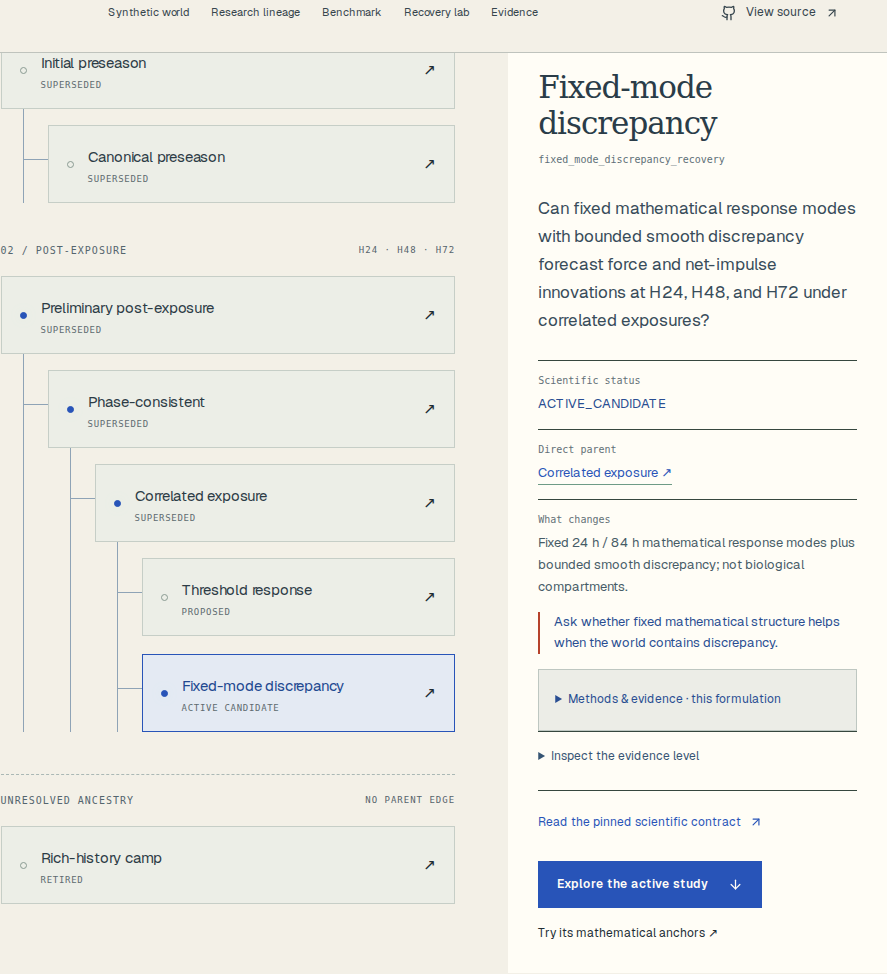
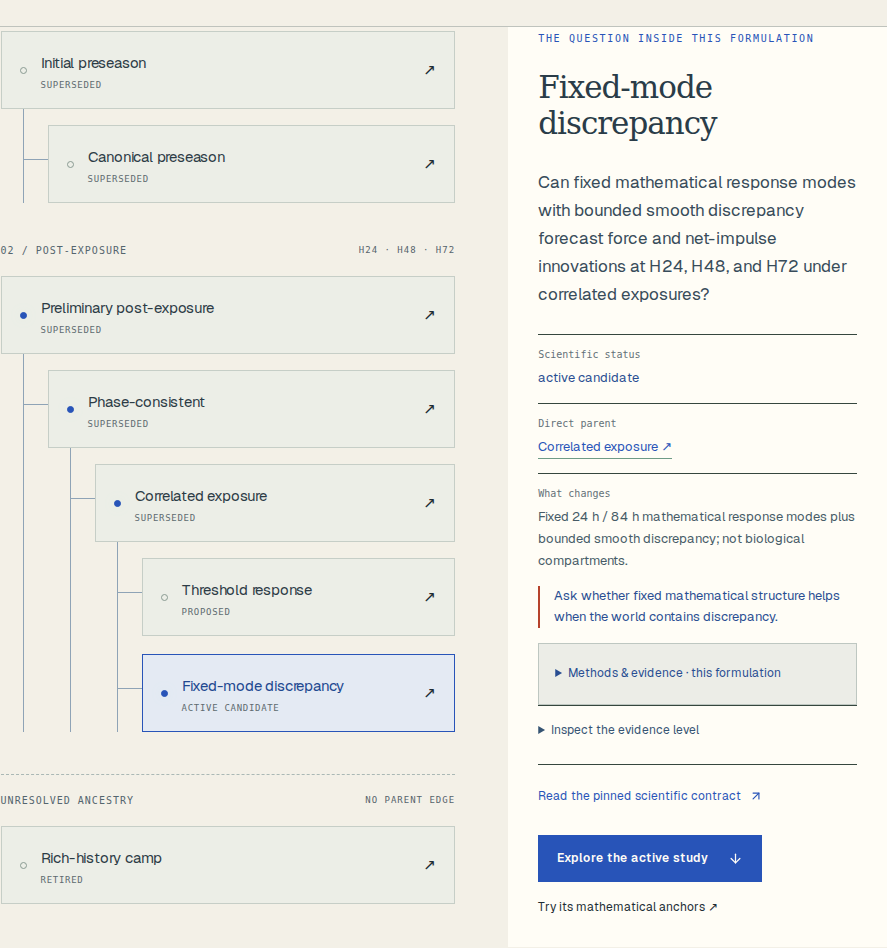
fix: keep source identifiers in technical disclosures

diff --git a/website/src/components/lineage.tsx b/website/src/components/lineage.tsx
@@ -33,13 +33,12 @@ function FormulationDetail({
     <>
       <span className="eyebrow">THE QUESTION INSIDE THIS FORMULATION</span>
       <h3>{node.label}</h3>
-      <code className="contract-name">{node.id}</code>
       <p className="lineage-question">{node.question}</p>
       <dl className="lineage-facts">
         <div>
           <dt>Scientific status</dt>
           <dd className={node.status === "ACTIVE_CANDIDATE" ? "mint-text" : ""}>
-            {node.status}
+            {node.status.replaceAll("_", " ").toLowerCase()}
           </dd>
         </div>
         <div>
@@ -65,6 +64,9 @@ function FormulationDetail({
       <p className="formulation-relevance">{method.relevance}</p>
       <details className="methods-sheet formulation-methods" key={node.id}>
         <summary>Methods & evidence · this formulation</summary>
+        <p>
+          Source identifier: <code className="contract-name">{node.id}</code>
+        </p>
         <dl>
           <dt>World / dynamics family</dt>
           <dd>
@@ -96,9 +98,14 @@ function FormulationDetail({
         <summary>Inspect the evidence level</summary>
         <dl>
           <dt>Public generation + result chain</dt>
-          <dd>{reconstruction.chain}</dd>
+          <dd>{reconstruction.chain.replaceAll("_", " ").toLowerCase()}</dd>
           <dt>Historical numeric result</dt>
-          <dd>{reconstruction.historical(node.id)}</dd>
+          <dd>
+            {reconstruction
+              .historical(node.id)
+              .replaceAll("_", " ")
+              .toLowerCase()}
+          </dd>
         </dl>
         <p>
           A fresh synthetic generator runs. No exact historical score replay.
@@ -141,7 +148,7 @@ function Branch({
         className="lineage-node"
         aria-pressed={selected === node.id}
         onClick={() => onSelect(node.id)}
-        title={node.id}
+        title={node.label}
       >
         <span className="node-mark" aria-hidden="true" />
         <span>

diff --git a/website/tests/ui/story.spec.ts b/website/tests/ui/story.spec.ts
@@ -79,14 +79,16 @@ test("all lineage contracts, exact statuses, parent selection and evidence are a
     await expect(button).toHaveAttribute("aria-pressed", "true");
     await expect(panel.locator(".contract-name")).toHaveText(node.id);
     await expect(panel.locator(".lineage-question")).toHaveText(node.question);
-    await expect(panel.locator(".lineage-facts")).toContainText(node.status);
+    await expect(panel.locator(".lineage-facts")).toContainText(
+      node.status.replaceAll("_", " ").toLowerCase(),
+    );
     await expect(panel.locator(".lineage-evidence dd").last()).toHaveText(
       [
         "preliminary_post_exposure_recovery",
         "threshold_response_recovery",
       ].includes(node.id)
-        ? "NOT_REPRODUCIBLE"
-        : "HISTORICAL_EVIDENCE_ONLY",
+        ? "not reproducible"
+        : "historical evidence only",
     );
     await expect(panel.locator(".contract-link")).toHaveAttribute(
       "href",
@@ -95,10 +97,10 @@ test("all lineage contracts, exact statuses, parent selection and evidence are a
   }
   await panel.locator(".lineage-evidence summary").click();
   await expect(panel.locator(".lineage-evidence")).toContainText(
-    "PARTIALLY_REPRODUCIBLE",
+    "partially reproducible",
   );
   await expect(panel.locator(".lineage-evidence")).toContainText(
-    "HISTORICAL_EVIDENCE_ONLY",
+    "historical evidence only",
   );
   await panel.getByRole("button", { name: "Correlated exposure" }).click();
   await expect(panel.locator(".contract-name")).toHaveText(
@@ -110,7 +112,7 @@ test("all lineage contracts, exact statuses, parent selection and evidence are a
   await expect(panel).toContainText("not an accepted successor");
   await panel.locator(".lineage-evidence summary").click();
   await expect(panel.locator(".lineage-evidence dd").last()).toHaveText(
-    "NOT_REPRODUCIBLE",
+    "not reproducible",
   );
   await page
     .locator('[data-formulation="fixed_mode_discrepancy_recovery"] > button')

diff --git a/website/tests/ui/gate7.spec.ts b/website/tests/ui/gate7.spec.ts
@@ -26,7 +26,7 @@ test("Gate7 routes, mechanics, tour, accessible diagrams and responsive export",
     "0px",
   );
   expect(await page.locator("body").innerText()).not.toMatch(
-    /Gate7|GATE7|RES-\d+/,
+    /Gate7|GATE7|RES-\d+|fixed_mode_discrepancy_recovery|ACTIVE_CANDIDATE/,
   );
   for (let i = 0; i < 9; i++)
     for (const r of ["r0", "r1"]) {

diff --git a/website/src/app/page.tsx b/website/src/app/page.tsx
@@ -154,7 +154,7 @@ export default function Home() {
             <Activity size={20} />
             {brand.name}
           </a>
-          <p>A provisional identity. A reproducible foundation.</p>
+          <p>Open methods. Traceable evidence.</p>
         </div>
         <div className="footer-links">
           <a href={sourceLink("CITATION.cff")}>

diff --git a/website/docs/ATLAS_VALIDATION.md b/website/docs/ATLAS_VALIDATION.md
@@ -46,3 +46,7 @@ legacy restoration and descriptive-URL reload, keyboard controls, SVG download,
 axe, and 320/390/768/1440 layouts. The revised desktop/mobile captures replace the
 initial dark-atlas captures. Unit tests (18), strict TypeScript, production export
 and the focused browser test passed locally.
+
+The lineage explorer also uses readable status labels and keeps canonical source
+identifiers inside its methods disclosure. Its three desktop/mobile/keyboard
+story tests passed after updating the expected public labels.
